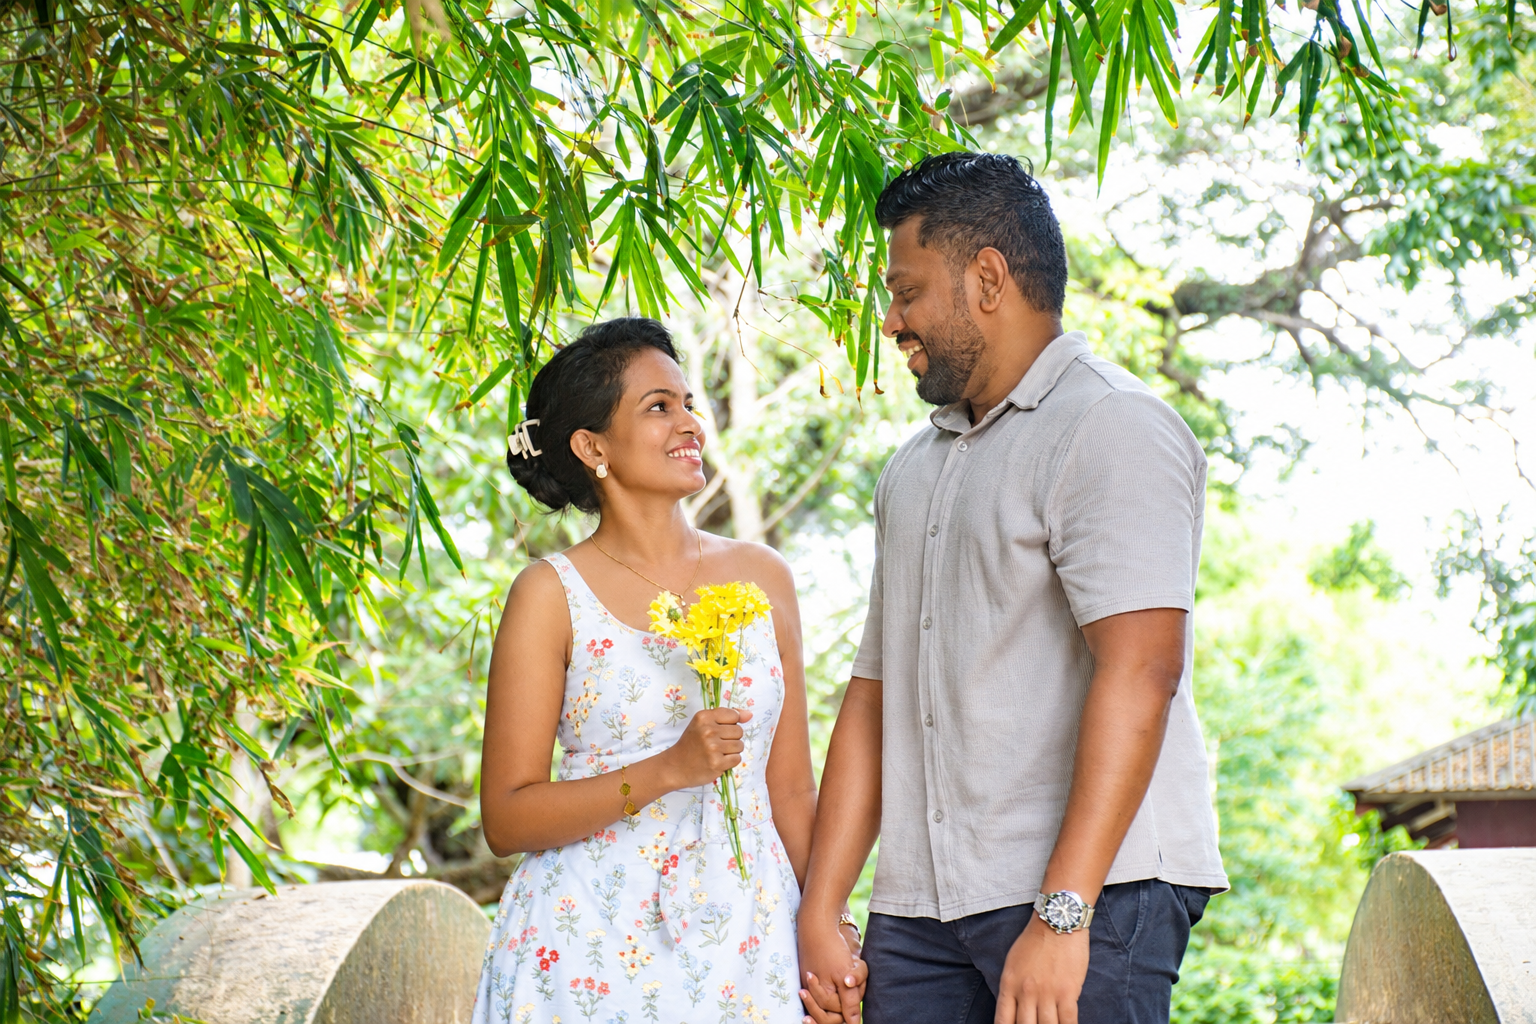
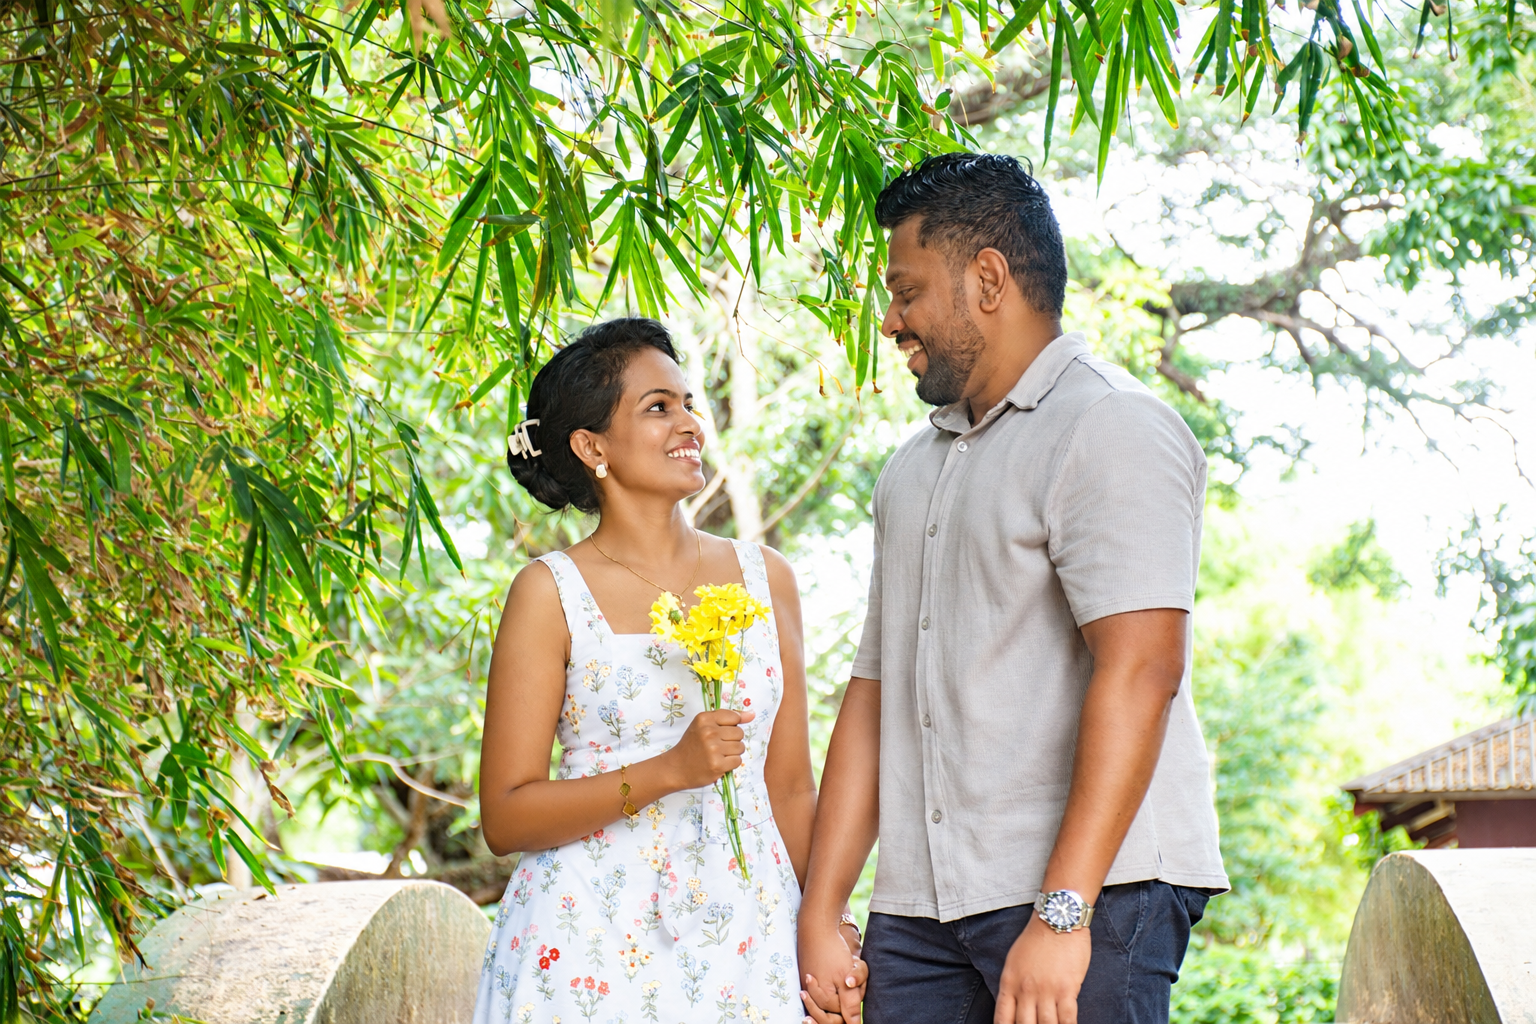
yy

diff --git a/src/components/RSVPForm.tsx b/src/components/RSVPForm.tsx
@@ -75,7 +75,7 @@ export const RSVPForm: React.FC = () => {
             transition={{ duration: 0.8 }}
           >
             <div className="relative h-[500px] overflow-hidden rounded-3xl shadow-2xl">
-              <img src="/03s.jpg" alt="Wedding RSVP" className="w-full h-full object-cover" />
+              <img src="/03s.jpg" alt="Wedding RSVP" className="w-full h-full object-cover object-bottom scale-105 origin-bottom" />
               <div className="absolute inset-0 bg-gradient-to-t from-black/40 to-transparent"></div>
             </div>
             <div className="bg-white p-6 rounded-2xl shadow-xl border border-[#ecebe7] mt-5">
